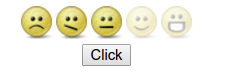
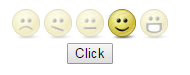
New version 0.0.2 with changes refered with selected face

diff --git a/dist/js/angular-rating-face.js b/dist/js/angular-rating-face.js
@@ -29,7 +29,7 @@ App.directive("ratingFace", function($parse){
            scope.$apply();
            for(var i=1; i<=5; i++){
              var el = angular.element(document.querySelector("#face"+i));
-             if(i<=id){
+             if(i==id){
                el.removeClass("opacity-face");
                el.attr("clicked", true);
              }else{
@@ -48,7 +48,7 @@ App.directive("ratingFace", function($parse){
          } finally {
            for(var i=1; i<=5; i++){
              var el = angular.element(document.querySelector("#face"+i));
-             if(i<=id){
+             if(i==id){
                el.removeClass("opacity-face");
              }else{
                el.addClass("opacity-face");
@@ -66,7 +66,7 @@ App.directive("ratingFace", function($parse){
          } finally {
            for(var i=1; i<=5; i++){
              var el = angular.element(document.querySelector("#face"+i));
-             if(i<=id){
+             if(i==id){
                el.removeClass("opacity-face");
              }else{
                el.addClass("opacity-face");
